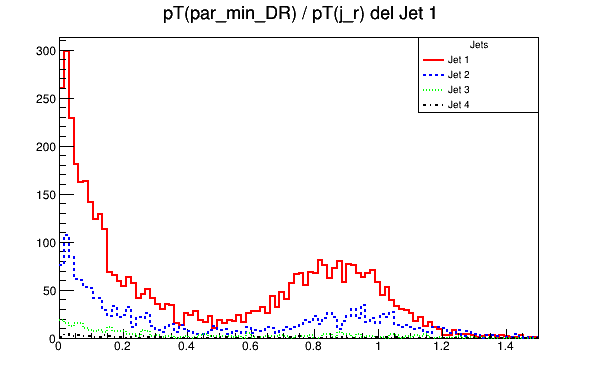
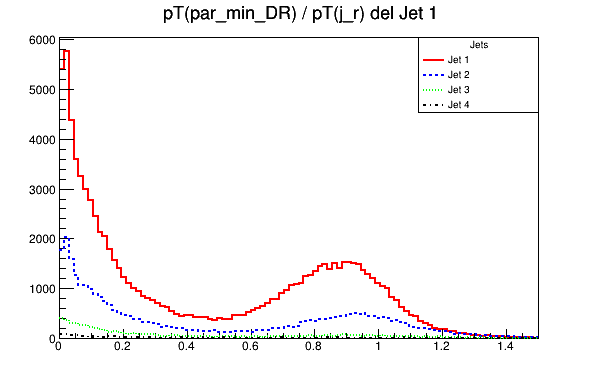
My last changes

diff --git a/Tomas_code/graphsTree.cpp b/Tomas_code/graphsTree.cpp
@@ -14,14 +14,14 @@ void graphsTree()
     // Creamos un objeto TChain para leer los rootfiles
     TChain *ch = new TChain("Delphes", "");
     ch->Add("../rootfiles/run_01.root");
-    // ch->Add("../rootfiles/run_02.root");
-    // ch->Add("../rootfiles/run_03.root");
-    // ch->Add("../rootfiles/run_04.root");
+    ch->Add("../rootfiles/run_02.root");
+    ch->Add("../rootfiles/run_03.root");
+    ch->Add("../rootfiles/run_04.root");
 
     TTree *Delphes = (TTree*)ch;
     Delphes->MakeClass("MyClass"); // Crea la clase de lectura de la TTree
     MyClass t(Delphes); // Evalúa la clase de lectura de la TTree
-    Long64_t nentries = 10000;//t.fChain->GetEntries(); // Obtiene el número de entradas en la TTree 
+    Long64_t nentries = t.fChain->GetEntries(); // Obtiene el número de entradas en la TTree 
 
     // Jets por evento
     TH1F *hJetsPerEvent = new TH1F("hJetsPerEvent", "Numero de Jets por Evento", 100, 0, 6);
@@ -81,7 +81,7 @@ void graphsTree()
     // Número de partículas cargadas por jet
     TH1F *hChargedParticles[4];
     for (int i = 0; i < 4; i++) {
-        hChargedParticles[i] = new TH1F(Form("hChargedParticles%d", i), Form("Numero de Partículas Cargadas del Jet %d", i+1), 100, -0.5, 3.5);
+        hChargedParticles[i] = new TH1F(Form("hChargedParticles%d", i), Form("Numero de Partículas Cargadas del Jet %d", i+1), 100, -0.5, 20.0);
     // Asigna un color único a cada histograma
     if(i == 0) hChargedParticles[i]->SetLineColor(kRed);
     else if(i == 1) hChargedParticles[i]->SetLineColor(kBlue);
@@ -95,7 +95,7 @@ void graphsTree()
     // Número de neutras cargadas por jet
     TH1F *hNeutralsParticles[4];
     for (int i = 0; i < 4; i++) {
-        hNeutralsParticles[i] = new TH1F(Form("hNeutralsParticles%d", i), Form("Numero de Partículas Cargadas del Jet %d", i+1), 100, -0.5, 3.5);
+        hNeutralsParticles[i] = new TH1F(Form("hNeutralsParticles%d", i), Form("Numero de Partículas Cargadas del Jet %d", i+1), 100, -0.5, 20.0);
     // Asigna un color único a cada histograma
     if(i == 0) hNeutralsParticles[i]->SetLineColor(kRed);
     else if(i == 1) hNeutralsParticles[i]->SetLineColor(kBlue);

diff --git a/Tomas_code/MyClass.h b/Tomas_code/MyClass.h
@@ -1,6 +1,6 @@
 //////////////////////////////////////////////////////////
 // This class has been automatically generated on
-// Tue Aug 27 22:53:34 2024 by ROOT version 6.28/10
+// Fri Aug 30 12:52:15 2024 by ROOT version 6.28/10
 // from TChain Delphes/
 //////////////////////////////////////////////////////////
 
@@ -23,19 +23,19 @@ public :
 // Fixed size dimensions of array or collections stored in the TTree if any.
    static constexpr Int_t kMaxEvent = 1;
    static constexpr Int_t kMaxWeight = 2;
-   static constexpr Int_t kMaxParticle = 3926;
-   static constexpr Int_t kMaxTrack = 142;
-   static constexpr Int_t kMaxTower = 280;
-   static constexpr Int_t kMaxEFlowTrack = 142;
+   static constexpr Int_t kMaxParticle = 4164;
+   static constexpr Int_t kMaxTrack = 163;
+   static constexpr Int_t kMaxTower = 291;
+   static constexpr Int_t kMaxEFlowTrack = 163;
    static constexpr Int_t kMaxEFlowPhoton = 82;
-   static constexpr Int_t kMaxEFlowNeutralHadron = 162;
-   static constexpr Int_t kMaxGenJet = 7;
+   static constexpr Int_t kMaxEFlowNeutralHadron = 177;
+   static constexpr Int_t kMaxGenJet = 9;
    static constexpr Int_t kMaxGenMissingET = 1;
-   static constexpr Int_t kMaxJet = 6;
+   static constexpr Int_t kMaxJet = 8;
    static constexpr Int_t kMaxElectron = 1;
    static constexpr Int_t kMaxPhoton = 2;
    static constexpr Int_t kMaxMuon = 1;
-   static constexpr Int_t kMaxFatJet = 1;
+   static constexpr Int_t kMaxFatJet = 2;
    static constexpr Int_t kMaxMissingET = 1;
    static constexpr Int_t kMaxScalarHT = 1;
 
@@ -910,6 +910,9 @@ MyClass::MyClass(TTree *tree) : fChain(0)
       // of trees.
       TChain * chain = new TChain("Delphes","");
       chain->Add("../rootfiles/run_01.root/Delphes");
+      chain->Add("../rootfiles/run_02.root/Delphes");
+      chain->Add("../rootfiles/run_03.root/Delphes");
+      chain->Add("../rootfiles/run_04.root/Delphes");
       tree = chain;
 #endif // SINGLE_TREE
 
